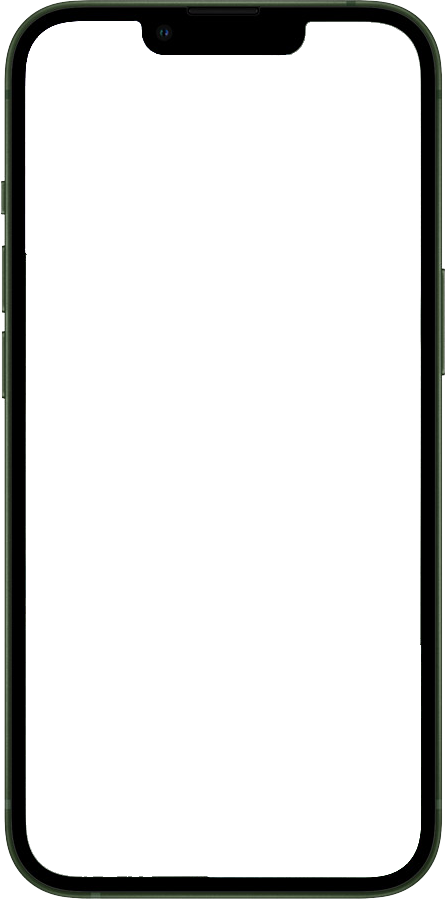
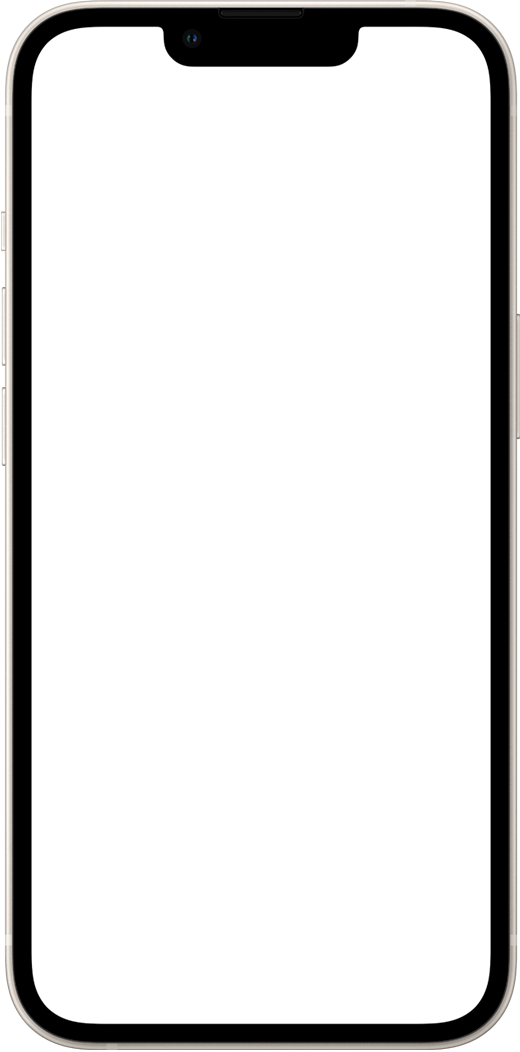
fix corrupt iphone img, fix seo share image reference

Changed region(s): [[0.0, 0.0, 1.0, 1.0]]

diff --git a/src/components/seo.js b/src/components/seo.js
@@ -31,7 +31,7 @@ function Seo({ description, title, children }) {
   return (
     <>
       <title>{title ? `${title} – Terri Navarra` : defaultTitle}</title>
-      <meta name="image" content={image} />
+      <meta name="image" content={site.siteMetadata.image} />
       <meta name="description" content={metaDescription} />
       <meta property="og:title" content={title} />
       <meta property="og:description" content={metaDescription} />
@@ -40,7 +40,7 @@ function Seo({ description, title, children }) {
       <meta name="twitter:creator" content={site.siteMetadata?.author || ``} />
       <meta name="twitter:title" content={title} />
       <meta name="twitter:description" content={metaDescription} />
-      <meta name="twitter:image" content={image} />
+      <meta name="twitter:image" content={site.siteMetadata.image} />
       {children}
     </>
   )

diff --git a/src/components/detailHero.js b/src/components/detailHero.js
@@ -25,7 +25,7 @@ const DetailHero = ({ img, mobileImg, vid, bgColor }) => {
           className="mobile-wrap__img"
         />
         <StaticImage
-          src="../images/iPhone_2x.png"
+          src="../images/iphone.png"
           placeholder="none"
           alt="mobile phone"
           className="mobile-wrap__phone"
